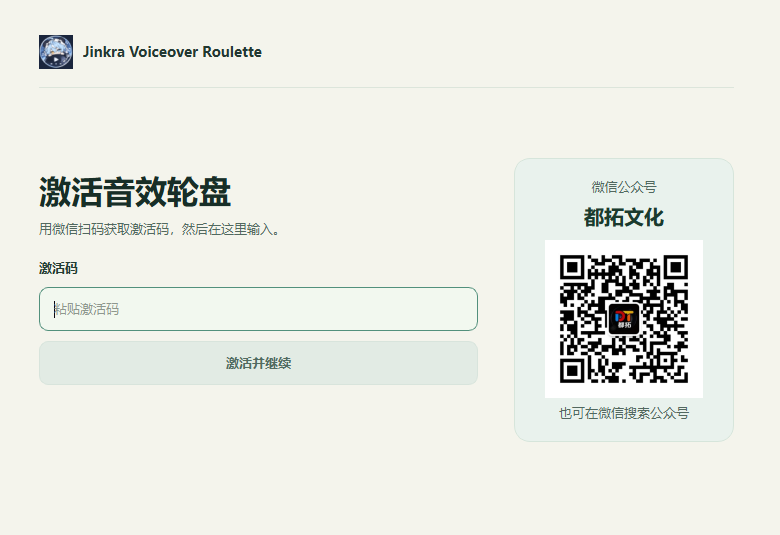
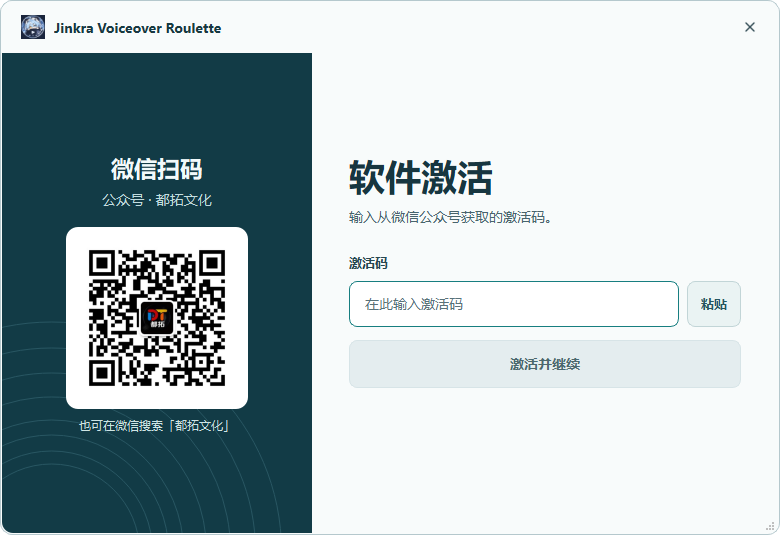
fix: 内嵌标题栏并重做激活页

diff --git a/welcome.py b/welcome.py
@@ -2,11 +2,11 @@
 
 import time
 
-from PySide6.QtCore import QEasingCurve, QPropertyAnimation, Qt, QTimer
-from PySide6.QtGui import QColor, QFont, QPainter, QPixmap
+from PySide6.QtCore import QEasingCurve, QPointF, QPropertyAnimation, QRectF, Qt, QTimer
+from PySide6.QtGui import QColor, QFont, QIcon, QPainter, QPainterPath, QPen, QPixmap
 from PySide6.QtWidgets import (
     QCheckBox, QComboBox, QDialog, QFrame, QGraphicsOpacityEffect, QHBoxLayout,
-    QLabel, QLineEdit, QListView, QProgressBar, QPushButton, QSplashScreen, QStackedWidget,
+    QLabel, QLineEdit, QListView, QProgressBar, QPushButton, QSizeGrip, QSplashScreen, QStackedWidget,
     QVBoxLayout, QWidget,
 )
 
@@ -60,6 +60,81 @@ def splash(icon, version, animated=True):
     return screen
 
 
+class _GuideTitleBar(QFrame):
+    def __init__(self, window):
+        super().__init__(window)
+        self.setObjectName("GuideTitleBar")
+        self.setFixedHeight(51)
+        self.drag_offset = None
+        row = QHBoxLayout(self)
+        row.setContentsMargins(19, 0, 12, 0)
+        row.setSpacing(9)
+        logo = QLabel()
+        logo.setPixmap(window.windowIcon().pixmap(24, 24))
+        logo.setAttribute(Qt.WA_TransparentForMouseEvents)
+        row.addWidget(logo)
+        title = QLabel(window.windowTitle())
+        title.setObjectName("GuideAppName")
+        title.setAttribute(Qt.WA_TransparentForMouseEvents)
+        row.addWidget(title)
+        row.addStretch()
+
+        mark = QPixmap(28, 28)
+        mark.setDevicePixelRatio(2)
+        mark.fill(Qt.transparent)
+        painter = QPainter(mark)
+        painter.setRenderHint(QPainter.Antialiasing)
+        pen = QPen(QColor("#39525b"), 1.25)
+        pen.setCapStyle(Qt.RoundCap)
+        painter.setPen(pen)
+        painter.drawLine(QPointF(3.5, 3.5), QPointF(10.5, 10.5))
+        painter.drawLine(QPointF(10.5, 3.5), QPointF(3.5, 10.5))
+        painter.end()
+        self.close_button = QPushButton(QIcon(mark), "")
+        self.close_button.setObjectName("GuideClose")
+        self.close_button.setFixedSize(32, 32)
+        self.close_button.setAutoDefault(False)
+        self.close_button.setAccessibleName("关闭窗口")
+        self.close_button.setToolTip("关闭窗口")
+        self.close_button.clicked.connect(window.reject)
+        row.addWidget(self.close_button)
+
+    def mousePressEvent(self, event):
+        if event.button() == Qt.LeftButton:
+            window = self.window()
+            handle = window.windowHandle()
+            if handle is None or not handle.startSystemMove():
+                self.drag_offset = event.globalPosition().toPoint() - window.pos()
+            event.accept()
+            return
+        super().mousePressEvent(event)
+
+    def mouseMoveEvent(self, event):
+        if self.drag_offset is not None and event.buttons() & Qt.LeftButton:
+            self.window().move(event.globalPosition().toPoint() - self.drag_offset)
+            event.accept()
+            return
+        super().mouseMoveEvent(event)
+
+    def mouseReleaseEvent(self, event):
+        self.drag_offset = None
+        super().mouseReleaseEvent(event)
+
+
+class _ScanPanel(QWidget):
+    def paintEvent(self, _event):
+        painter = QPainter(self)
+        painter.setRenderHint(QPainter.Antialiasing)
+        panel = QPainterPath()
+        panel.addRoundedRect(QRectF(self.rect()).adjusted(0, -13, 13, 0), 11, 11)
+        painter.fillPath(panel, QColor("#123b46"))
+        painter.setClipPath(panel)
+        center = QPointF(self.width() * 0.16, self.height() + 19)
+        painter.setPen(QPen(QColor("#285662"), 1))
+        for radius in (88, 101, 117, 132, 155, 179, 204, 230):
+            painter.drawEllipse(center, radius, radius)
+
+
 class SetupGuide(QDialog):
     def __init__(self, service, activation, cfg, parent=None):
         super().__init__(parent)
@@ -73,39 +148,58 @@ class SetupGuide(QDialog):
         self.locked_until = 0.0
         self.retry_timer = QTimer(self, interval=250)
         self.retry_timer.timeout.connect(self._retry_status)
-        self.setWindowTitle("Jinkra · 使用向导")
+        self.setWindowFlag(Qt.FramelessWindowHint)
+        self.setAttribute(Qt.WA_TranslucentBackground)
+        self.setWindowTitle(service.APP_NAME)
         self.setWindowIcon(service.make_icon())
         self.resize(780, 535)
         self.setMinimumSize(690, 475)
         self.setStyleSheet("""
-QDialog { background: #f4f4ec; color: #252f29; font-family: "Microsoft YaHei UI"; }
+QWidget { font-family: "Microsoft YaHei UI"; }
+QFrame#GuideSurface { background: #f8fbfb; border: 1px solid #b5c8cd; border-radius: 12px; }
+QFrame#GuideTitleBar { border-bottom: 1px solid #d9e5e7; }
+QLabel#GuideAppName { color: #193941; font-family: "Segoe UI"; font-size: 14px; font-weight: 700; }
 QFrame#GuideRail { background: #242a26; border-radius: 12px; }
 QLabel { color: #304137; font-size: 13px; }
 QLabel#RailBrand { color: #f1f2e9; font-size: 19px; font-weight: 700; }
 QLabel#Step { color: #b9d5c6; font-size: 13px; }
 QLabel#Title { color: #222c25; font-size: 27px; font-weight: 700; }
 QLabel#GuideNote { color: #326456; font-size: 12px; }
-QLabel#ActivationBrand { color: #233832; font-size: 14px; font-weight: 700; }
-QLabel#ActivationTitle { color: #172e27; font-size: 32px; font-weight: 700; }
-QLabel#ActivationMuted { color: #52685f; font-size: 13px; }
-QLabel#ActivationLabel { color: #253d33; font-size: 13px; font-weight: 700; }
-QLabel#ActivationAccount { color: #1b3b2e; font-size: 20px; font-weight: 700; }
-QLabel#ActivationFeedback { color: #93452e; font-size: 12px; }
-QFrame#ActivationCard { background: #e9f2ed; border: 1px solid #d6e5db; border-radius: 16px; }
-QFrame#ActivationDivider { background: #dce5db; }
+QLabel#ScanTitle { color: #f2fafb; font-size: 23px; font-weight: 700; }
+QLabel#ScanAccount { color: #c2dde0; font-size: 14px; }
+QLabel#ScanHint { color: #cee5e5; font-size: 12px; }
+QLabel#ScanCode { background: #ffffff; color: #193941; border-radius: 12px; }
+QLabel#ActivationTitle { color: #173640; font-size: 36px; font-weight: 700; }
+QLabel#ActivationMuted { color: #48646c; font-size: 14px; }
+QLabel#ActivationLabel { color: #284750; font-size: 13px; font-weight: 700; }
+QLabel#ActivationFeedback { color: #963d36; font-size: 13px; }
 QPushButton, QLineEdit, QComboBox { min-height: 26px; background: #ffffff; border: 1px solid #cbd4c8;
     border-radius: 7px; padding: 5px 12px; font-size: 13px; color: #29362d; }
 QPushButton:hover, QLineEdit:focus, QComboBox:focus { border-color: #52907c; background: #f2f8ef; }
 QPushButton:pressed { background: #cde4d6; }
 QPushButton#Next { background: #316d5c; color: #ffffff; border-color: #316d5c; font-weight: 700; }
 QPushButton#Next:hover { background: #285a4c; }
-QLineEdit#ActivationCode, QPushButton#Activate { min-height: 32px; border-radius: 9px; }
-QPushButton#Activate { background: #205e49; border-color: #205e49; color: #ffffff; font-weight: 700; }
-QPushButton#Activate:hover { background: #194d3c; }
-QPushButton#Activate:pressed { background: #123b2d; }
-QPushButton#Activate:focus { border-color: #78b69a; }
-QPushButton#Activate:disabled { color: #526b61; background: #e2ebe4; border-color: #d8e4dc; }
 QPushButton:disabled { color: #859087; background: #e8ebe3; border-color: #d8dfd5; }
+QPushButton#GuideClose { background: transparent; border: 1px solid transparent; border-radius: 7px;
+    padding: 0; min-height: 0; }
+QPushButton#GuideClose:hover { background: #f5e3e3; }
+QPushButton#GuideClose:pressed { background: #efd0d0; }
+QPushButton#GuideClose:focus { border-color: #6c9da2; }
+QLineEdit#ActivationCode { background: #ffffff; border: 1px solid #b9cdd0;
+    border-radius: 8px; padding: 0 13px; min-height: 44px; font-size: 14px;
+    color: #193941; placeholder-text-color: #59727a; }
+QLineEdit#ActivationCode:focus { border: 1px solid #177e80; background: #ffffff; }
+QPushButton#PasteCode { background: #eaf3f3; border-color: #c2d5d7; color: #27565e;
+    border-radius: 8px; padding: 0 13px; min-height: 44px; font-weight: 700; }
+QPushButton#PasteCode:hover { background: #dbecea; }
+QPushButton#PasteCode:pressed { background: #c7e0de; }
+QPushButton#PasteCode:focus { border-color: #177e80; }
+QPushButton#Activate { background: #176961; border-color: #176961; color: #ffffff;
+    border-radius: 8px; padding: 0 14px; min-height: 46px; font-size: 14px; font-weight: 700; }
+QPushButton#Activate:hover { background: #115a55; }
+QPushButton#Activate:pressed { background: #0b4744; }
+QPushButton#Activate:focus { border-color: #80c6ba; }
+QPushButton#Activate:disabled { color: #4b686d; background: #e4edef; border-color: #d7e4e7; }
 QComboBox#GuideMic { combobox-popup: 0; }
 QComboBox#GuideMic:disabled { color: #576b60; background: #e9ede6; }
 QListView#GuideMicOptions { color: #223b30; background: #ffffff; outline: 0;
@@ -117,9 +211,19 @@ QListView#GuideMicOptions::item:selected { background: #dceee3; color: #133d2b; 
 QProgressBar { background: #49574f; border: none; border-radius: 2px; }
 QProgressBar::chunk { background: #9ed3bb; border-radius: 2px; }
 """)
-        outer = QHBoxLayout(self)
-        outer.setContentsMargins(15, 15, 15, 15)
+        frame_layout = QVBoxLayout(self)
+        frame_layout.setContentsMargins(0, 0, 0, 0)
+        surface = QFrame()
+        surface.setObjectName("GuideSurface")
+        frame_layout.addWidget(surface)
+        frame = QVBoxLayout(surface)
+        frame.setContentsMargins(1, 1, 1, 1)
+        frame.setSpacing(0)
+        self.title_bar = _GuideTitleBar(self)
+        frame.addWidget(self.title_bar)
+        outer = self.body = QHBoxLayout()
         outer.setSpacing(23)
+        frame.addLayout(outer, 1)
         rail = self.rail = QFrame()
         rail.setObjectName("GuideRail")
         rail.setFixedWidth(172)
@@ -144,8 +248,7 @@ QProgressBar::chunk { background: #9ed3bb; border-radius: 2px; }
         layout.addStretch()
         outer.addWidget(rail)
 
-        right = QVBoxLayout()
-        right.setContentsMargins(0, 8, 7, 5)
+        right = self.guide_content = QVBoxLayout()
         right.setSpacing(14)
         outer.addLayout(right, 1)
         self.pages = QStackedWidget()
@@ -208,77 +311,85 @@ QProgressBar::chunk { background: #9ed3bb; border-radius: 2px; }
         footer.addWidget(self.skip)
         footer.addWidget(self.next)
         right.addWidget(self.footer)
+        self.grip = QSizeGrip(self)
+        self.grip.resize(17, 17)
+        self.grip.setToolTip("拖动调整窗口大小")
         self.detect_timer = QTimer(self, interval=1800)
         self.detect_timer.timeout.connect(self._refresh_audio)
         self._show(1 if self.unlocked else 0)
 
     def _activation_page(self):
         page = QWidget()
-        layout = QVBoxLayout(page)
-        layout.setContentsMargins(24, 12, 24, 20)
-        layout.setSpacing(18)
+        layout = QHBoxLayout(page)
+        layout.setContentsMargins(0, 0, 0, 0)
+        layout.setSpacing(0)
+        layout.addWidget(self._scan_panel(), 4)
 
-        brand = QHBoxLayout()
-        brand.setSpacing(10)
-        logo = QLabel()
-        logo.setPixmap(self.windowIcon().pixmap(34, 34))
-        brand.addWidget(logo)
-        name = QLabel("Jinkra Voiceover Roulette")
-        name.setObjectName("ActivationBrand")
-        brand.addWidget(name)
-        brand.addStretch()
-        layout.addLayout(brand)
-        divider = QFrame()
-        divider.setObjectName("ActivationDivider")
-        divider.setFixedHeight(1)
-        layout.addWidget(divider)
-
-        body = QHBoxLayout()
-        body.setSpacing(36)
-        form = QVBoxLayout()
-        form.setSpacing(10)
-        form.addStretch(2)
-        form.addWidget(self._text("激活音效轮盘", style="ActivationTitle"))
-        form.addWidget(self._text("用微信扫码获取激活码，然后在这里输入。", style="ActivationMuted"))
-        form.addSpacing(12)
+        form_area = QWidget()
+        columns = QHBoxLayout(form_area)
+        columns.setContentsMargins(37, 20, 37, 20)
+        fields = QWidget()
+        fields.setMaximumWidth(420)
+        columns.addWidget(fields, 1)
+        form = QVBoxLayout(fields)
+        form.setContentsMargins(0, 0, 0, 0)
+        form.setSpacing(9)
+        form.addStretch()
+        form.addWidget(self._text("软件激活", style="ActivationTitle"))
+        form.addWidget(self._text("输入从微信公众号获取的激活码。", style="ActivationMuted"))
+        form.addSpacing(20)
         self.code = QLineEdit()
         self.code.setObjectName("ActivationCode")
         self.code.setEchoMode(QLineEdit.Password)
         self.code.setMaxLength(128)
-        self.code.setPlaceholderText("粘贴激活码")
+        self.code.setPlaceholderText("在此输入激活码")
         self.code.setAccessibleName("激活码")
         self.code.returnPressed.connect(self._advance)
         code_label = self._text("激活码", style="ActivationLabel")
         code_label.setBuddy(self.code)
         form.addWidget(code_label)
-        form.addWidget(self.code)
+        entry = QHBoxLayout()
+        entry.setSpacing(8)
+        entry.addWidget(self.code, 1)
+        self.paste_button = QPushButton("粘贴")
+        self.paste_button.setObjectName("PasteCode")
+        self.paste_button.setAutoDefault(False)
+        self.paste_button.setCursor(Qt.PointingHandCursor)
+        self.paste_button.clicked.connect(self._paste_code)
+        entry.addWidget(self.paste_button)
+        form.addLayout(entry)
+        form.addSpacing(4)
         self.activate_button = QPushButton("激活" if self.activation_only else "激活并继续")
         self.activate_button.setObjectName("Activate")
+        self.activate_button.setCursor(Qt.PointingHandCursor)
         self.activate_button.setEnabled(False)
         self.activate_button.clicked.connect(self._advance)
         self.code.textChanged.connect(self._update_activate_button)
         form.addWidget(self.activate_button)
         self.activation_message = self._text("", style="ActivationFeedback")
-        self.activation_message.setMinimumHeight(36)
+        self.activation_message.setMinimumHeight(37)
         self.activation_message.setAlignment(Qt.AlignLeft | Qt.AlignTop)
         form.addWidget(self.activation_message)
-        form.addStretch(2)
-        body.addLayout(form, 1)
+        form.addStretch()
+        layout.addWidget(form_area, 6)
+        return page
 
-        card = QFrame()
-        card.setObjectName("ActivationCard")
-        card.setMinimumWidth(220)
-        card.setMaximumWidth(258)
-        card_layout = QVBoxLayout(card)
-        card_layout.setContentsMargins(22, 20, 22, 19)
-        card_layout.setSpacing(7)
-        channel = self._text("微信公众号", style="ActivationMuted")
-        channel.setAlignment(Qt.AlignCenter)
-        card_layout.addWidget(channel)
-        account = self._text("都拓文化", style="ActivationAccount")
+    def _scan_panel(self):
+        panel = _ScanPanel()
+        panel.setMinimumWidth(235)
+        layout = QVBoxLayout(panel)
+        layout.setContentsMargins(22, 20, 22, 20)
+        layout.setSpacing(8)
+        layout.addStretch()
+        title = self._text("微信扫码", style="ScanTitle")
+        title.setAlignment(Qt.AlignCenter)
+        layout.addWidget(title)
+        account = self._text("公众号 · 都拓文化", style="ScanAccount")
         account.setAlignment(Qt.AlignCenter)
-        card_layout.addWidget(account)
+        layout.addWidget(account)
         qr = QLabel()
+        qr.setObjectName("ScanCode")
+        qr.setFixedSize(182, 182)
         qr.setAccessibleName("都拓文化微信公众号二维码")
         qr.setAlignment(Qt.AlignCenter)
         poster = QPixmap(str(self.service.RESOURCE_DIR / "wechat-promotion.png"))
@@ -287,15 +398,24 @@ QProgressBar::chunk { background: #9ed3bb; border-radius: 2px; }
         else:
             # 原图二维码四周的留白要一起保留，方便扫码。
             qr.setPixmap(poster.copy(73, 73, 460, 460).scaled(
-                158, 158, Qt.KeepAspectRatio, Qt.SmoothTransformation))
-        card_layout.addSpacing(4)
-        card_layout.addWidget(qr)
-        hint = self._text("也可在微信搜索公众号", style="ActivationMuted")
+                168, 168, Qt.KeepAspectRatio, Qt.SmoothTransformation))
+        layout.addSpacing(10)
+        layout.addWidget(qr, 0, Qt.AlignHCenter)
+        hint = self._text("也可在微信搜索「都拓文化」", style="ScanHint")
         hint.setAlignment(Qt.AlignCenter)
-        card_layout.addWidget(hint)
-        body.addWidget(card, 0, Qt.AlignVCenter)
-        layout.addLayout(body, 1)
-        return page
+        layout.addWidget(hint)
+        layout.addStretch()
+        return panel
+
+    def _paste_code(self):
+        self.code.setFocus()
+        self.code.selectAll()
+        self.code.paste()
+
+    def resizeEvent(self, event):
+        super().resizeEvent(event)
+        if hasattr(self, "grip"):
+            self.grip.move(self.width() - self.grip.width() - 3, self.height() - self.grip.height() - 3)
 
     def _update_activate_button(self):
         self.activate_button.setEnabled(bool(self.code.text().strip()) and not self.retry_timer.isActive())
@@ -333,14 +453,19 @@ QProgressBar::chunk { background: #9ed3bb; border-radius: 2px; }
                                  if self.enable_mic.isEnabled() and self.enable_mic.isChecked()
                                  else "将使用本地播放。虚拟麦克风可在「语音输出」中补设。")
         self.pages.setCurrentIndex(index)
-        self.rail.setVisible(index != 0)
-        self.footer.setVisible(index != 0)
+        activating = index == 0
+        self.rail.setVisible(not activating)
+        self.footer.setVisible(not activating)
+        body_margins = (0, 0, 0, 0) if activating else (15, 14, 15, 15)
+        content_margins = (0, 0, 0, 0) if activating else (0, 7, 7, 5)
+        self.body.setContentsMargins(*body_margins)
+        self.guide_content.setContentsMargins(*content_margins)
         self.progress.setValue(index + 1)
         self.step.setText(f"{index + 1} / 4\n" + ("激活", "轮盘入门", "语音设备", "进入工作台")[index])
         self.prev.setVisible(index > 1)
         self.skip.setVisible(index in (1, 2))
         self.next.setText("进入工作台" if index == 3 else "下一步")
-        if index == 0:
+        if activating:
             self.code.setFocus()
         reveal(self.pages, self.cfg.get("animations", True))
 

diff --git a/sr_roulette.py b/sr_roulette.py
@@ -162,7 +162,7 @@ import theme
 from theme import accent, accent_dark, accent_light, set_accent
 
 APP_NAME = "Jinkra Voiceover Roulette"
-APP_VERSION = "v1.3.1"
+APP_VERSION = "v1.3.2"
 
 DEBUG = os.environ.get("SR_DEBUG") == "1"
 
